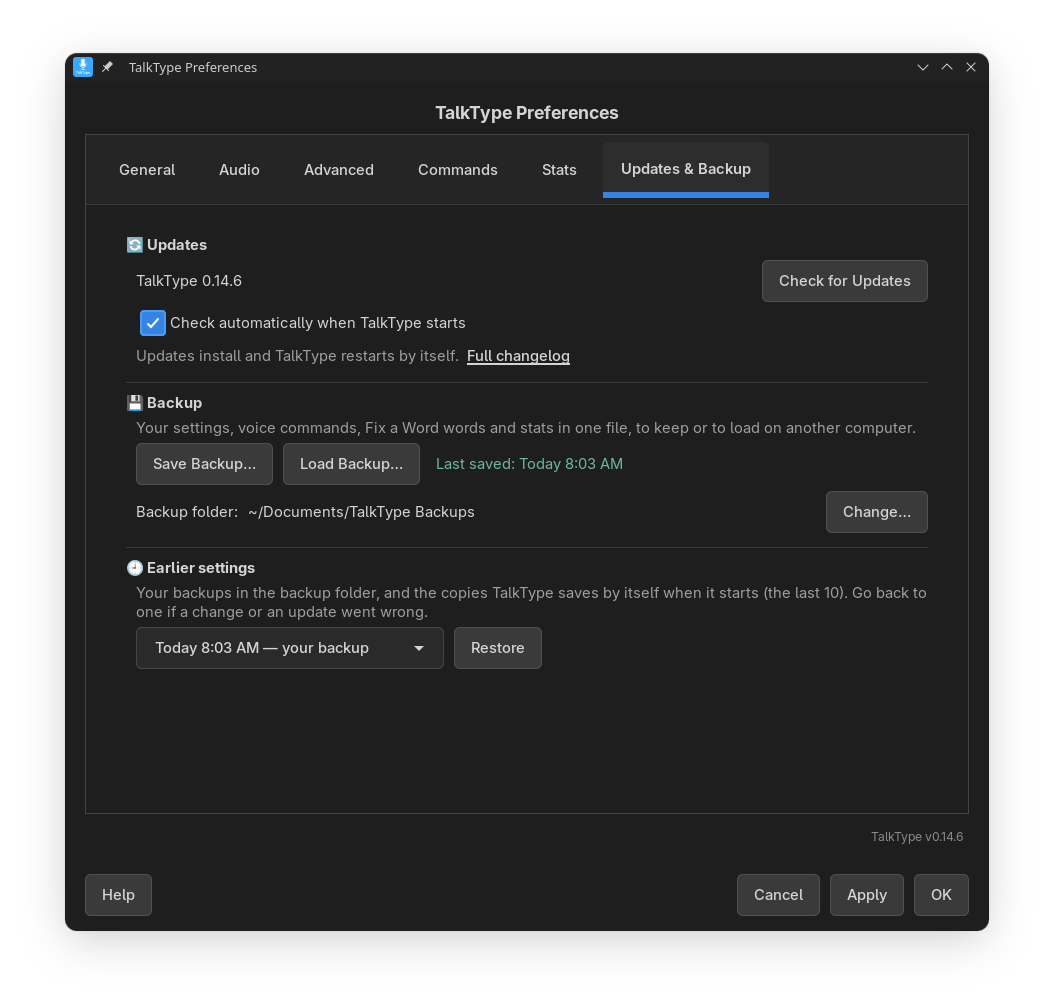
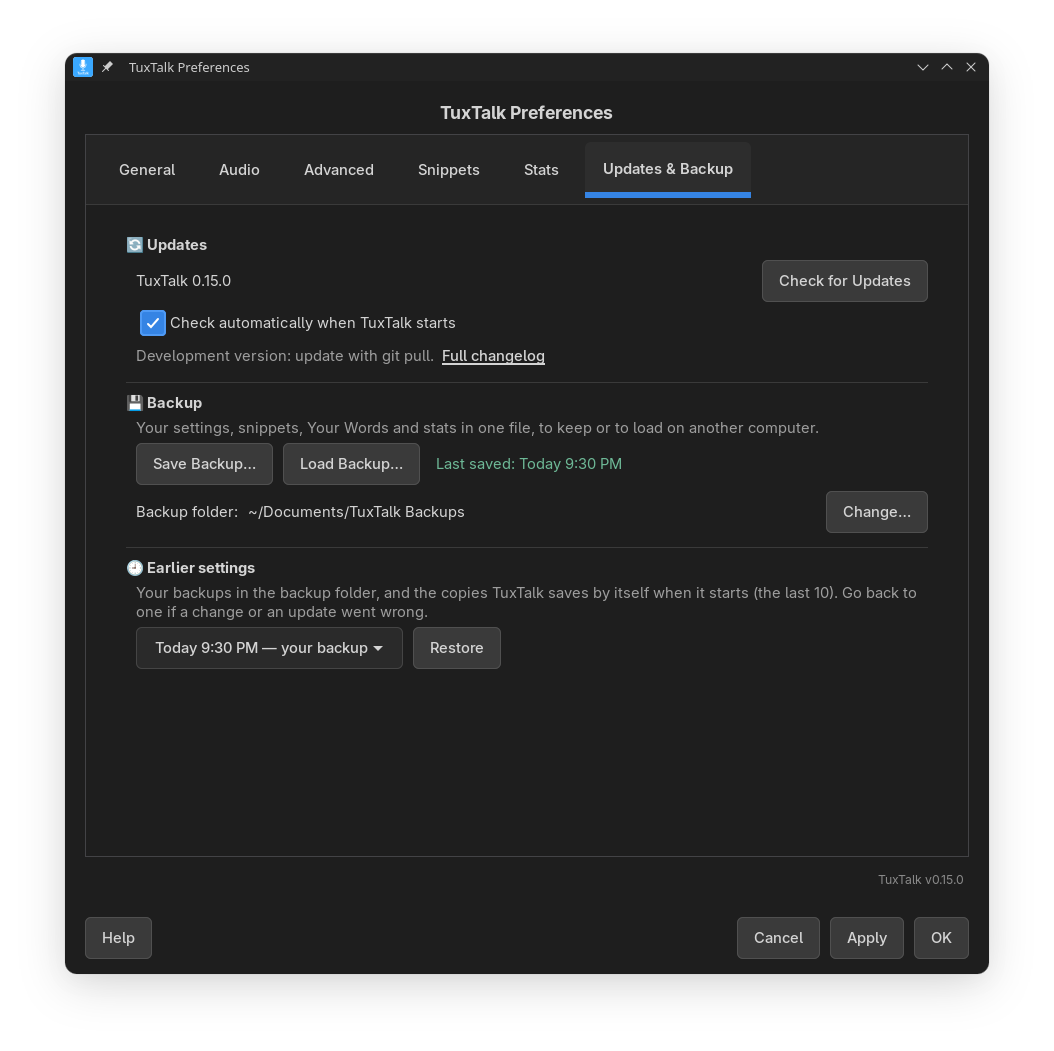
README, changelog and store listing for 0.15.0, with new screenshots
Every screenshot is retaken with the TuxTalk name (they all still said
TalkType), from a demo profile with made-up snippets. New ones: voice
editing (a drawn before-and-after with real results from the code and the
AI), Your Words, TuxTalk Labs in Preferences and Help. The README gets a
"New in 0.15.0" section, rows for Your Words and Labs, the new hotkeys and
features; the changelog gets the VM-round and testing fixes; the store
listing gets a 0.15.0 release entry and the voice editing image.

diff --git a/README.md b/README.md
@@ -20,6 +20,7 @@
 
 <p align="center">
   <a href="#installation">Install</a> &nbsp;&bull;&nbsp;
+  <a href="#new-in-0150">New in 0.15.0</a> &nbsp;&bull;&nbsp;
   <a href="#what-it-does">What it does</a> &nbsp;&bull;&nbsp;
   <a href="#all-the-features">All the features</a> &nbsp;&bull;&nbsp;
   <a href="CHANGELOG.md">What's new</a>
@@ -36,6 +37,24 @@ https://github.com/user-attachments/assets/e2aa55f4-a4ff-482e-8884-cc92ac5809a9
 That works on GNOME, KDE, Sway, Hyprland and X11 with no setup, because TuxTalk reads the key straight from the keyboard instead of asking the desktop for it. Most Linux dictation tools can't do hold-to-talk on Wayland at all.
 
 It's free, it runs completely offline, and nothing you say ever leaves your computer.
+
+---
+
+## New in 0.15.0
+
+<p align="center">
+  <img src="screenshots/voice-edit.png" alt="Voice editing. Select 'hey can u send me the report by friday thx' and say 'make this more formal': it becomes 'Could you please send me the report by Friday, thank you.' Select milk, eggs, bread on three lines and say 'make this a bulleted list': each line gets a dash. Select 'the deadline is tomorrow' and say 'make this all caps': THE DEADLINE IS TOMORROW." width="700">
+</p>
+
+**Voice editing.** Select some text, hold Shift+F8 and tell it what to change. Say it however you want, there's no fixed wording. Ctrl+Z puts your text back if you don't like what you got. Things like all caps, bullet lists or taking out the commas are done exactly in code, and the AI only gets the jobs that need it, like changing the tone. It's in TuxTalk Labs for now, which means it works but I'm still working on it, so it stays off until you turn it on.
+
+**Your Words.** Put in the names and terms you use, one per line, and they come out spelled your way. Parakeet kept writing my app's name as "Tuck's talk". Now it's TuxTalk.
+
+**Ctrl+Alt+P types your last dictation again**, wherever your cursor is. For when something steals the focus and your words land in the wrong window.
+
+**Music and videos pause while you dictate**, and start back up when you're done. I had a YouTube video going once and it turned "isn't it" into "Venezuela".
+
+And the indicator can follow the window you're dictating into, Swiss German gets ss instead of ß, and Preferences asks before you close it with changes you didn't apply. The [changelog](CHANGELOG.md) has the rest.
 
 ---
 
@@ -67,12 +86,12 @@ Want something else? One button shows every choice, with what it costs you in do
 
 ### Teach it your words
 
-Names, brands, the part numbers you use every day. If TuxTalk keeps getting one wrong, pick it out of a recent dictation with **Fix a Word**, type it the right way, and it's fixed from then on.
+Names, brands, the part numbers you use every day. Put them in **Your Words** and they come out spelled your way, even when the model hears them split up, like "tux talk". If one still comes out wrong, pick it out of a recent dictation with **Fix a Word**, type it the right way, and it's fixed from then on.
 
-You can also make your own shortcuts, like "my email" for your address.
+Snippets are your own shortcuts, like "my email" for your address.
 
 </td>
-<td width="50%"><img src="screenshots/prefs-commands.png" alt="Preferences, Snippets tab: your own phrases and Fix a Word"></td>
+<td width="50%"><img src="screenshots/your-words.png" alt="Your Words: names and terms TuxTalk should spell your way, one per line"></td>
 </tr>
 <tr>
 <td width="50%"><img src="screenshots/tray-performance.png" alt="Tray menu with the Performance presets"></td>
@@ -103,6 +122,16 @@ Your Stats shows the words you've dictated today, this week and all time, and ho
 Save your settings, voice commands, Fix a Word words and stats to one file, and load it on a new computer or after a reinstall. TuxTalk also keeps your last 10 settings on its own, so if a change or an update goes wrong you can just go back.
 
 </td>
+</tr>
+<tr>
+<td>
+
+### Try what's coming next
+
+TuxTalk Labs is at the bottom of Preferences, Advanced. It's for features that work but aren't finished, like voice editing and an indicator that follows the window you're dictating into. They're off until you turn them on, and there's a link right there to tell me how they're working for you.
+
+</td>
+<td width="50%"><img src="screenshots/prefs-labs.png" alt="Preferences, Advanced: the TuxTalk Labs section with voice editing and the indicator that follows your window"></td>
 </tr>
 </table>
 
@@ -193,6 +222,8 @@ enough interest and I'll make it happen.
 |--------|--------------|
 | **F8** | Hold to record, release to transcribe (hold-to-talk) |
 | **F9** | Press once to start, press again to stop (tap-to-toggle) |
+| **Ctrl+Alt+P** | Types your last dictation again, wherever your cursor is |
+| **Shift+F8** | Voice editing: hold it and say how to change the selected text (turn it on in TuxTalk Labs first) |
 
 ---
 
@@ -205,12 +236,17 @@ enough interest and I'll make it happen.
 - **Corrections.** Say "no wait", "scratch that", "I mean" or "actually" and the optional AI fixes it. It also drops "um", "uh" and stutters.
 - **Voice commands.** "comma", "period", "new paragraph", "undo last word", "delete last three sentences" and more. See the full list below.
 - **Email and web addresses.** "john at gmail dot com" types john@gmail.com, and "github dot com" types github.com.
-- **Your own commands.** Make a phrase type anything you want, like "my email" for your address.
+- **Voice editing (Labs).** Select text, hold Shift+F8 and say how to change it. Tone and rewrites go to the AI, while caps, lists, commas and removing a word are done exactly in code. Bold, italics and underline work in LibreOffice and other word processors.
+- **Snippets.** Make a phrase type anything you want, like "my email" for your address.
+- **Your Words.** The names and terms you use, spelled your way.
 - **Fix a Word.** Teach it a name or term it keeps getting wrong.
+- **Paste Last Dictation.** Ctrl+Alt+P types your last dictation again, for when it landed in the wrong window.
+- **Pauses your music and videos** while you talk, and starts back up only what it paused.
 - **Recent Dictations.** Your last 20, one click to copy. Kept in memory only.
 - **Your Stats.** Words dictated and typing time saved, at your own typing speed.
 - **Settings backup.** Save everything to one file and load it on another computer. TuxTalk also keeps your last 10 settings on its own, so you can roll back a change.
-- **A recording indicator you can style.** Orb, waveform, frequency bars or radial, any color, anywhere on screen. It reacts to your voice so you know it's listening.
+- **A recording indicator you can style.** Orb, waveform, frequency bars or radial, any color, anywhere on screen. It reacts to your voice so you know it's listening. In Labs it can follow the window you're dictating into.
+- **Swiss German spelling.** Types ss instead of ß, on by itself when your system is set to Swiss German.
 - **Tells you why when it can't type.** If a dictation can't be typed into the window, TuxTalk says why and what fixes it.
 - **Private.** Everything runs on your computer, and what you dictate is never written to a log unless you turn that on for troubleshooting.
 - **GNOME extension.** A native panel menu on GNOME, and a tray icon everywhere else.
@@ -247,10 +283,19 @@ enough interest and I'll make it happen.
 <p align="center"><em>Microphone test and recording indicator &bull; The Voice Commands quick reference</em></p>
 
 <p align="center">
-  <img src="screenshots/help-getting-started.png" alt="Help, Getting Started" width="45%">
-  <img src="screenshots/help-voice-commands.png" alt="Help, Voice Commands" width="45%">
+  <img src="screenshots/prefs-snippets.png" alt="Preferences, Snippets: your own phrases, Fix a Word and Your Words" width="45%">
+  <img src="screenshots/prefs-stats.png" alt="Preferences, Stats" width="45%">
 </p>
-<p align="center"><em>Built-in help</em></p>
+<p align="center"><em>Snippets, Fix a Word and Your Words &bull; Your Stats</em></p>
+
+<p align="center">
+  <img src="screenshots/help-getting-started.png" alt="Help, Getting Started" width="70%">
+</p>
+<p align="center">
+  <img src="screenshots/help-voice-commands.png" alt="Help, Voice Commands" width="45%">
+  <img src="screenshots/help-labs.png" alt="Help, TuxTalk Labs: how voice editing works" width="45%">
+</p>
+<p align="center"><em>Built-in help, including a page on TuxTalk Labs and voice editing</em></p>
 
 </details>
 

diff --git a/CHANGELOG.md b/CHANGELOG.md
@@ -3,7 +3,7 @@
 All notable changes to TuxTalk are documented here. It was called TalkType
 before 0.15.0, so older entries use that name.
 
-## [0.15.0] - unreleased
+## [0.15.0] - 2026-10-13
 
 TalkType is now TuxTalk.
 
@@ -72,6 +72,37 @@ Also new in this one:
 - Times like "6:41 p.m." sometimes came out as "641 p.m.", with no colon. Turns
   out Parakeet writes the same time two different ways, and only one of them
   was getting fixed. Both come out as 6:41 PM now.
+- Preferences has a gear next to it in the tray menu now, so it's easier to
+  spot. On KDE the Dictation Service checkmark moved into the same column so
+  everything still lines up.
+- Close Preferences with the X after changing something and it asks if you
+  want to apply it first. Before, it just threw your changes away without a
+  word. I found that one the hard way.
+
+Fixed, mostly found by testing on five different distros:
+
+- Tap F9 and say nothing and Parakeet could type "Mm-hmm." It hears that in
+  silence, apparently. It doesn't get typed anymore, and a dictation that
+  comes up empty gives you the cancel beep so you know it heard you stop.
+- Test Hotkeys could close the second it opened.
+- Preferences fits on a 1366x768 or 1280x800 laptop screen with its buttons
+  showing.
+- If an old TalkType was still running, TuxTalk quietly didn't start. Now the
+  old one steps aside. An old TalkType Flatpak gets stopped too, otherwise both
+  of them typed every dictation twice.
+- The hotkey test only says Working when TuxTalk can actually read your
+  keyboard. Before, it could say Working and then the dictation key did
+  nothing.
+- A line break going into a terminal becomes a space, so a dictation can't run
+  a command by itself.
+- Model downloads try again on a bad connection, and ask before falling back
+  to a smaller model.
+- Cancel the password prompt for the typing fix or an update and it says
+  cancelled instead of failed.
+- On GNOME without the extension, dictating into a terminal pastes again.
+- On KDE the setup windows show TuxTalk's icon instead of a generic W.
+- The "You're All Set" window fits without scrolling.
+- Restoring the clipboard puts the middle-click selection back too.
 
 ## [0.14.6] - 2026-10-11
 
